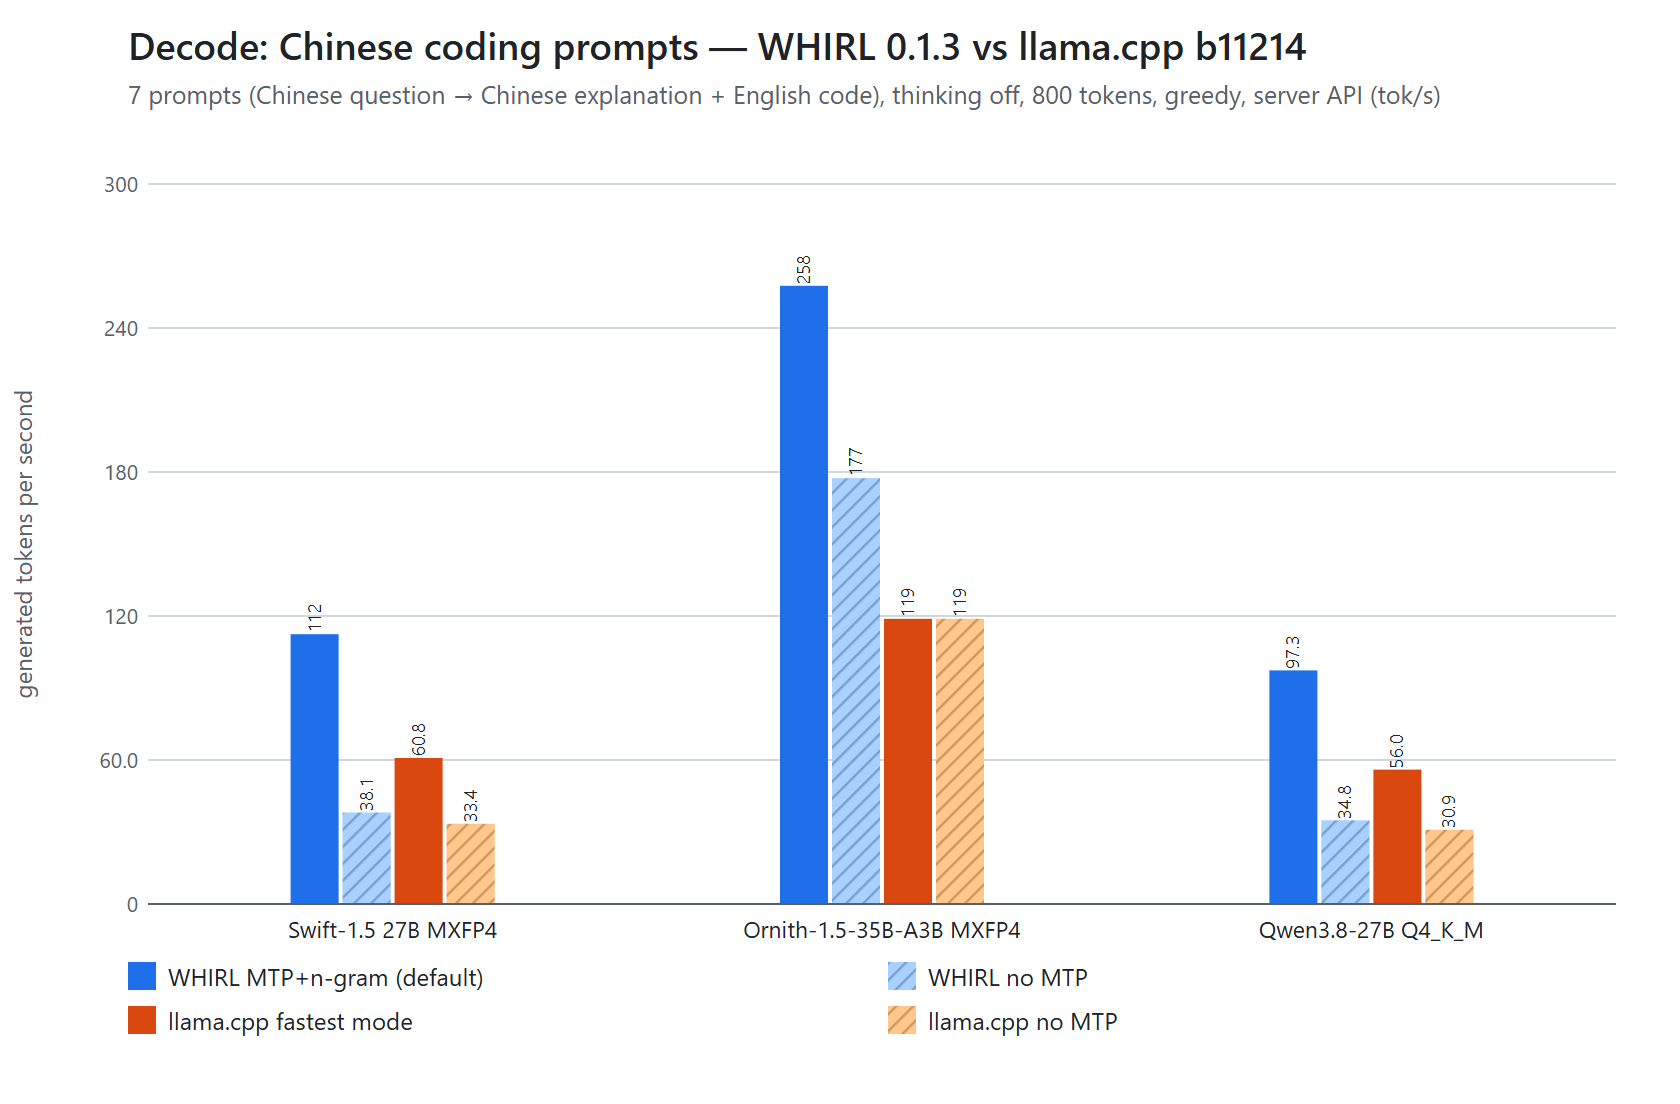
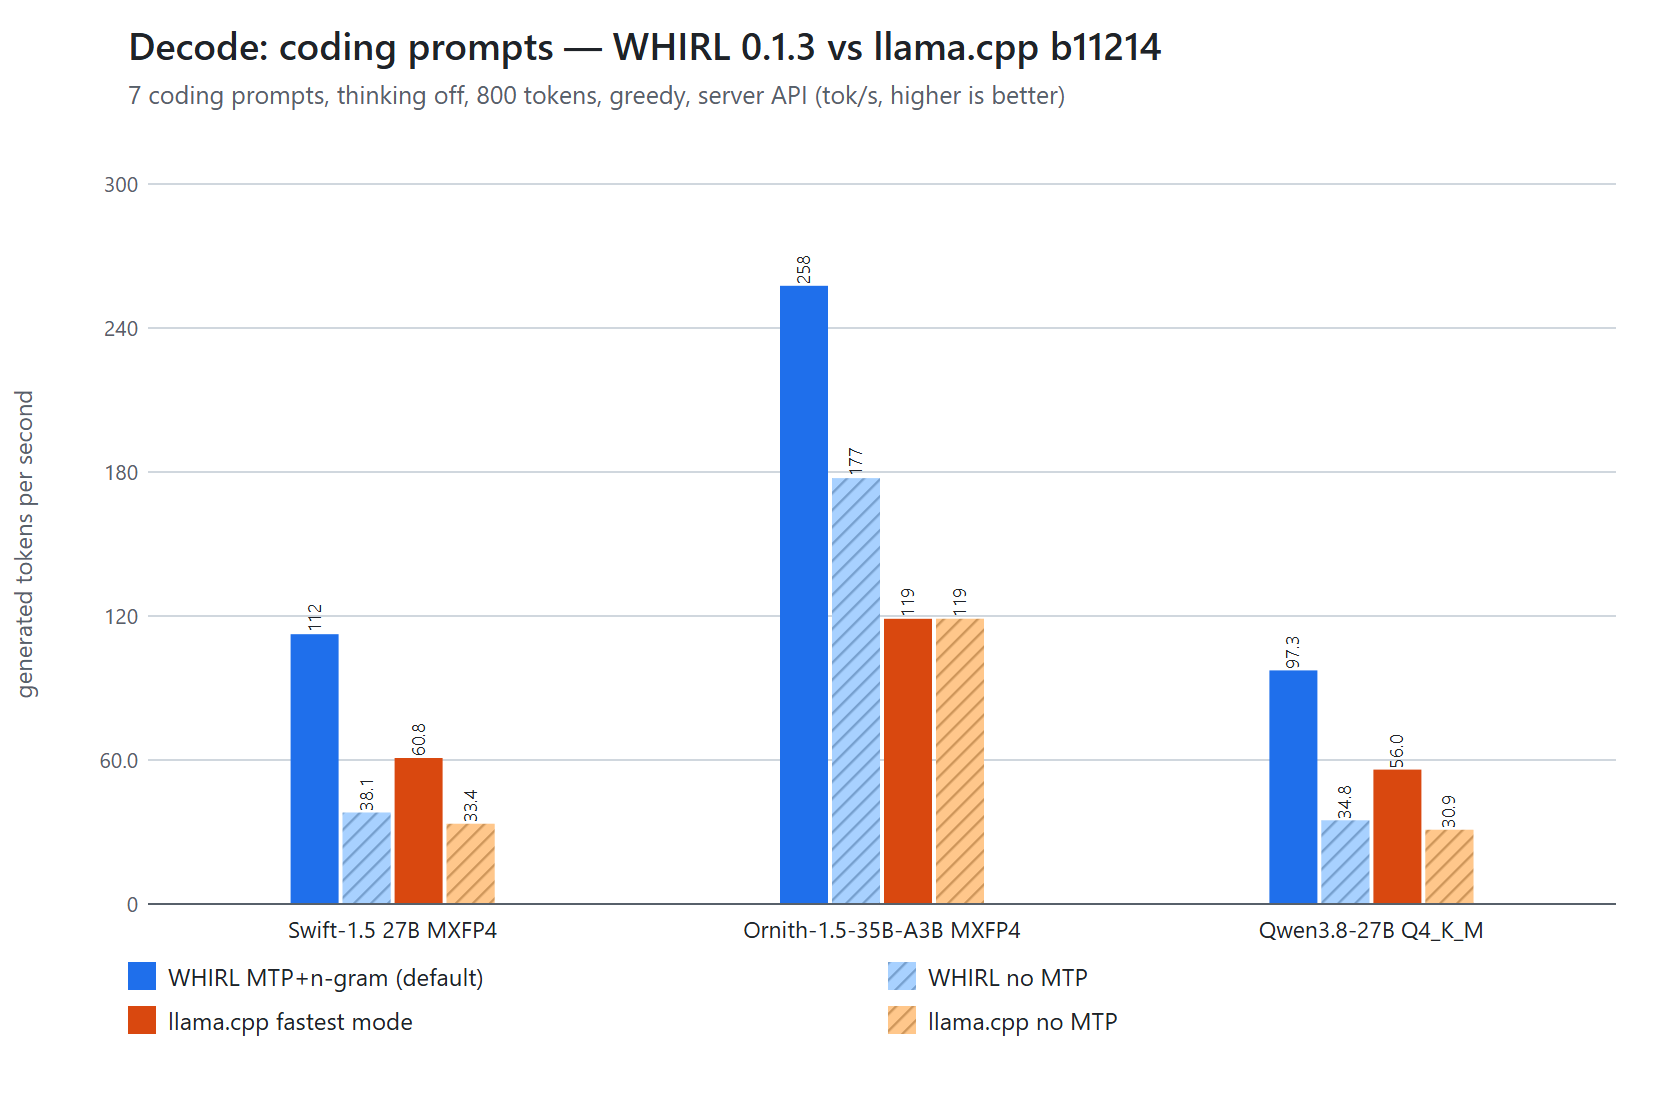
README: 'coding prompts' instead of 'Chinese coding prompts'; decode chart retitled

Changed region(s): [[0.0929, 0.0308, 0.8667, 0.0924]]

diff --git a/README.md b/README.md
@@ -22,7 +22,7 @@ Same GGUF file, same prompts, one R9700, greedy decoding; llama.cpp b11214 (ROCm
 
 | | Swift-1.5 27B MXFP4-A (dense) | Ornith-1.5-35B-A3B MXFP4 (MoE) |
 |---|---|---|
-| Decode tok/s, Chinese coding prompts | 112.4 vs 60.8 (**1.85×**) | 257.6 vs 118.8 (**2.17×**) |
+| Decode tok/s, coding prompts | 112.4 vs 60.8 (**1.85×**) | 257.6 vs 118.8 (**2.17×**) |
 | Server, 4 users at once, aggregate tok/s | 182.1 vs 64.0 (**2.84×**) | 381.1 vs 176.8 (**2.16×**) |
 | Prefill tok/s, 8k-token prompt | 3,469 vs 1,338 (**2.59×**) | 11,258 vs 4,637 (**2.43×**) |
 | Prefill tok/s, 32k-token prompt | 2,907 vs 1,174 (**2.48×**) | 8,633 vs 3,778 (**2.29×**) |
@@ -35,7 +35,7 @@ Same GGUF file, same prompts, one R9700, greedy decoding; llama.cpp b11214 (ROCm
 
 ![Prefill throughput vs prompt length, WHIRL 0.1.3 vs llama.cpp](docs/images/bench_prefill.png)
 
-![Decode speed on Chinese coding prompts, WHIRL 0.1.3 vs llama.cpp](docs/images/bench_decode_zh.png)
+![Decode speed on coding prompts, WHIRL 0.1.3 vs llama.cpp](docs/images/bench_decode_zh.png)
 
 Full table (including Qwen3.8 Q4_K_M and where WHIRL does *not* lead by much): [Performance](#performance).
 
@@ -128,7 +128,7 @@ Our MXFP4 files (Swift-1.5 27B and Ornith-1.5-35B-A3B) are the main comparison; 
 
 | R9700, greedy — WHIRL vs llama.cpp (ratio) | Swift-1.5 27B MXFP4-A (dense) | Ornith-1.5-35B-A3B MXFP4 (MoE, ~3B active) | Qwen3.8-27B UD-Q4_K_M (dense, reference) |
 |---|---|---|---|
-| Decode tok/s, 7 Chinese coding prompts (800 tokens) — WHIRL MTP+n-gram vs llama.cpp fastest¹ | 112.4 vs 60.8 (1.85×) | 257.6 vs 118.8 (2.17×) | 97.3 vs 56.0 (1.74×) |
+| Decode tok/s, 7 coding prompts (800 tokens) — WHIRL MTP+n-gram vs llama.cpp fastest¹ | 112.4 vs 60.8 (1.85×) | 257.6 vs 118.8 (2.17×) | 97.3 vs 56.0 (1.74×) |
 | Decode tok/s after a 16k-token context — WHIRL MTP+n-gram vs llama.cpp fastest¹ | 71.4 vs 60.9⁴ (1.17×) | 316.4 vs 106.9⁴ (2.96×) | 80.7 vs 60.7⁴ (1.33×) |
 | Decode tok/s, same 7 prompts — WHIRL **no MTP** vs llama.cpp **no MTP** | 38.1 vs 33.4 (1.14×) | 177.4 vs 118.8 (1.49×) | 34.8 vs 30.9 (1.13×) |
 | Server, 4 concurrent users, aggregate tok/s (incl. prefill) — WHIRL MTP+n-gram vs llama.cpp fastest¹ | 182.1 vs 64.0⁴ (2.84×) | 381.1 vs 176.8⁴ (2.16×) | 122.4 vs 57.1⁴ (2.14×) |
@@ -185,7 +185,7 @@ Both versions measured on the same machine, with the same GGUF file and the same
 | Prefill tok/s, 128k-token prompt (q8h KV, server) | 1,352.7 | 1,533.0 | +13.3% |
 | Prefill tok/s, 256k-token prompt (q8h KV, server) | 832.5 | 969.8 | +16.5% |
 | Decode tok/s, Q&A over a 128k-token document (answer quotes the document a lot) | 63.7 | 87.6 | +37.5% |
-| Decode tok/s, Chinese coding prompts | 110.7 | 120.7 | +9.1% |
+| Decode tok/s, coding prompts | 110.7 | 120.7 | +9.1% |
 | KV pool, default 4 slots (tokens) | 210,688 | 226,304 | +7.4% |
 | 4 users, short prompts sent together: whole batch done (s, lower is better) | 9.57 | 8.62 | −9.9% |
 | Decode tok/s, long-context coding-agent request (agent session 3, step 143, 127.9k tokens) | 53.7 | 75.2 | +40.0% |
